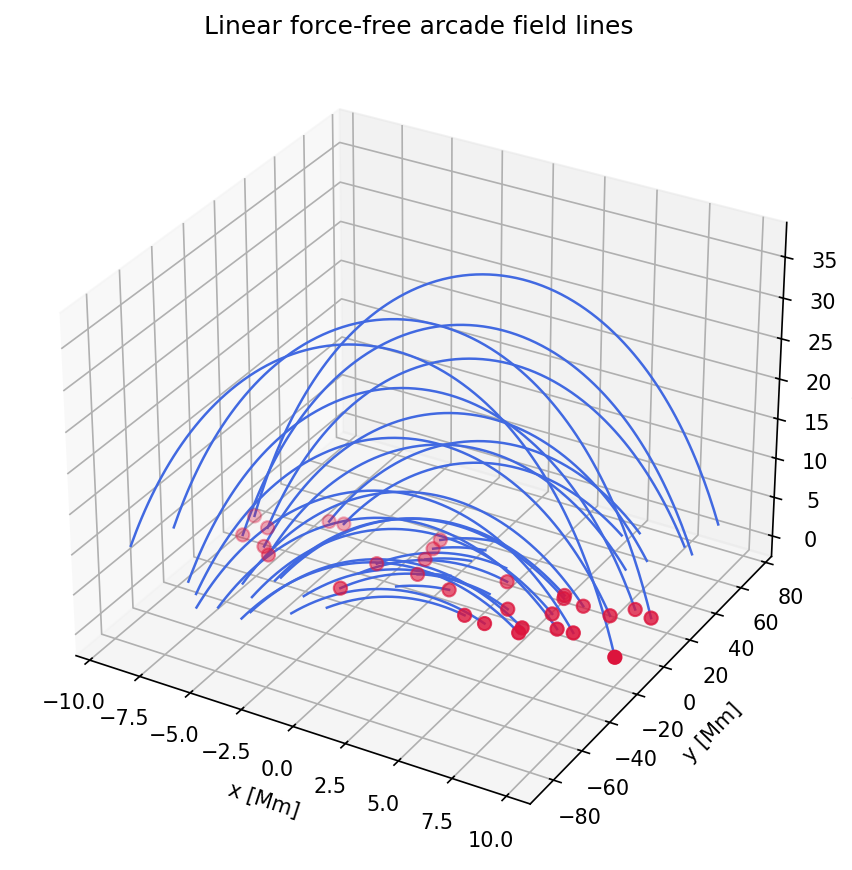
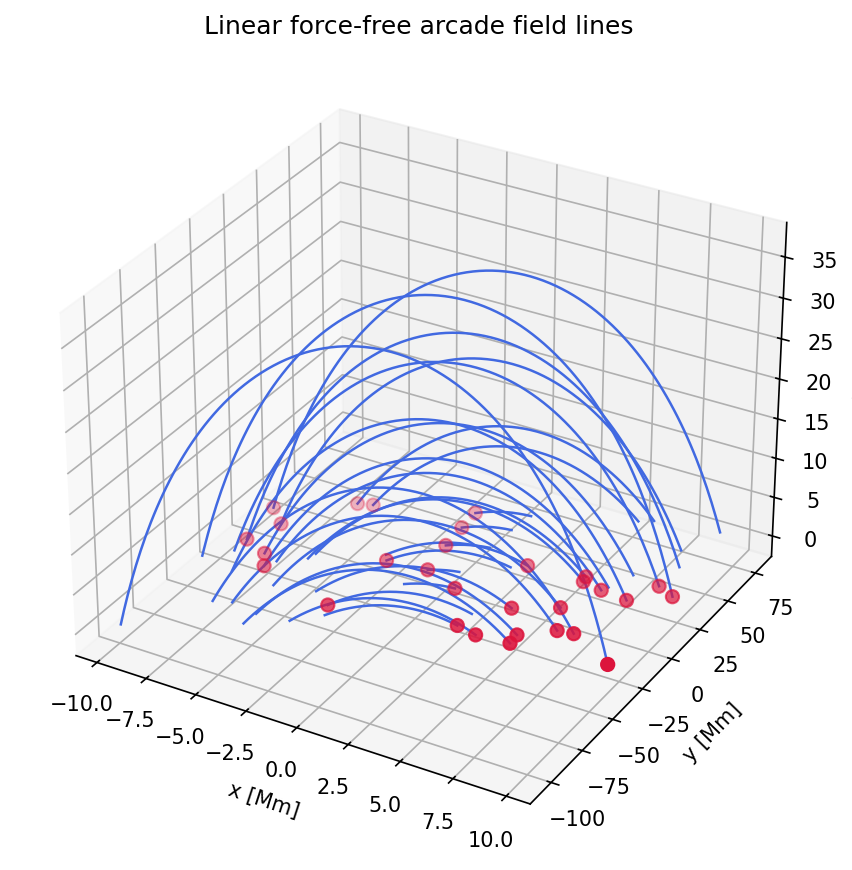
feat: extend field lines 1.5x, widen y footprint 2x
- lx_bln: 201 → 301, lcen_bln: 101 → 151 (1.5x tracing length)
- y grid: ±40 → ±50 Mm; seed y spread factor 0.6 → 0.96 (±48 Mm, 2x)

diff --git a/src/wind3d_field_lines/demo_arcade.py b/src/wind3d_field_lines/demo_arcade.py
@@ -24,14 +24,14 @@ class ArcadeDemoConfig:
     nz: int = 65
     x_min: float = -12.0
     x_max: float = 12.0
-    y_min: float = -40.0
-    y_max: float = 40.0
+    y_min: float = -50.0
+    y_max: float = 50.0
     z_min: float = 0.0
     z_max: float = 65.0
     seed_count: int = 30
     seed_rng_seed: int = 42
-    lx_bln: int = 201
-    lcen_bln: int = 101
+    lx_bln: int = 301
+    lcen_bln: int = 151
     margin: int = 0
     nsubstepx: int = 3
     output: str | None = None
@@ -165,7 +165,7 @@ def run_demo(config: ArcadeDemoConfig) -> int:
     # Avoid |x| < 0.5 Mm near the polarity inversion line where Bz ~ 0.
     rng = np.random.default_rng(config.seed_rng_seed)
     x_half = config.x_max * 0.85
-    y_half = config.y_max * 0.6
+    y_half = config.y_max * 0.96
     seed_x_raw = rng.uniform(-x_half, x_half, config.seed_count)
     # Nudge seeds very close to the PIL away from it so tracing is meaningful.
     pil_margin = 0.5
